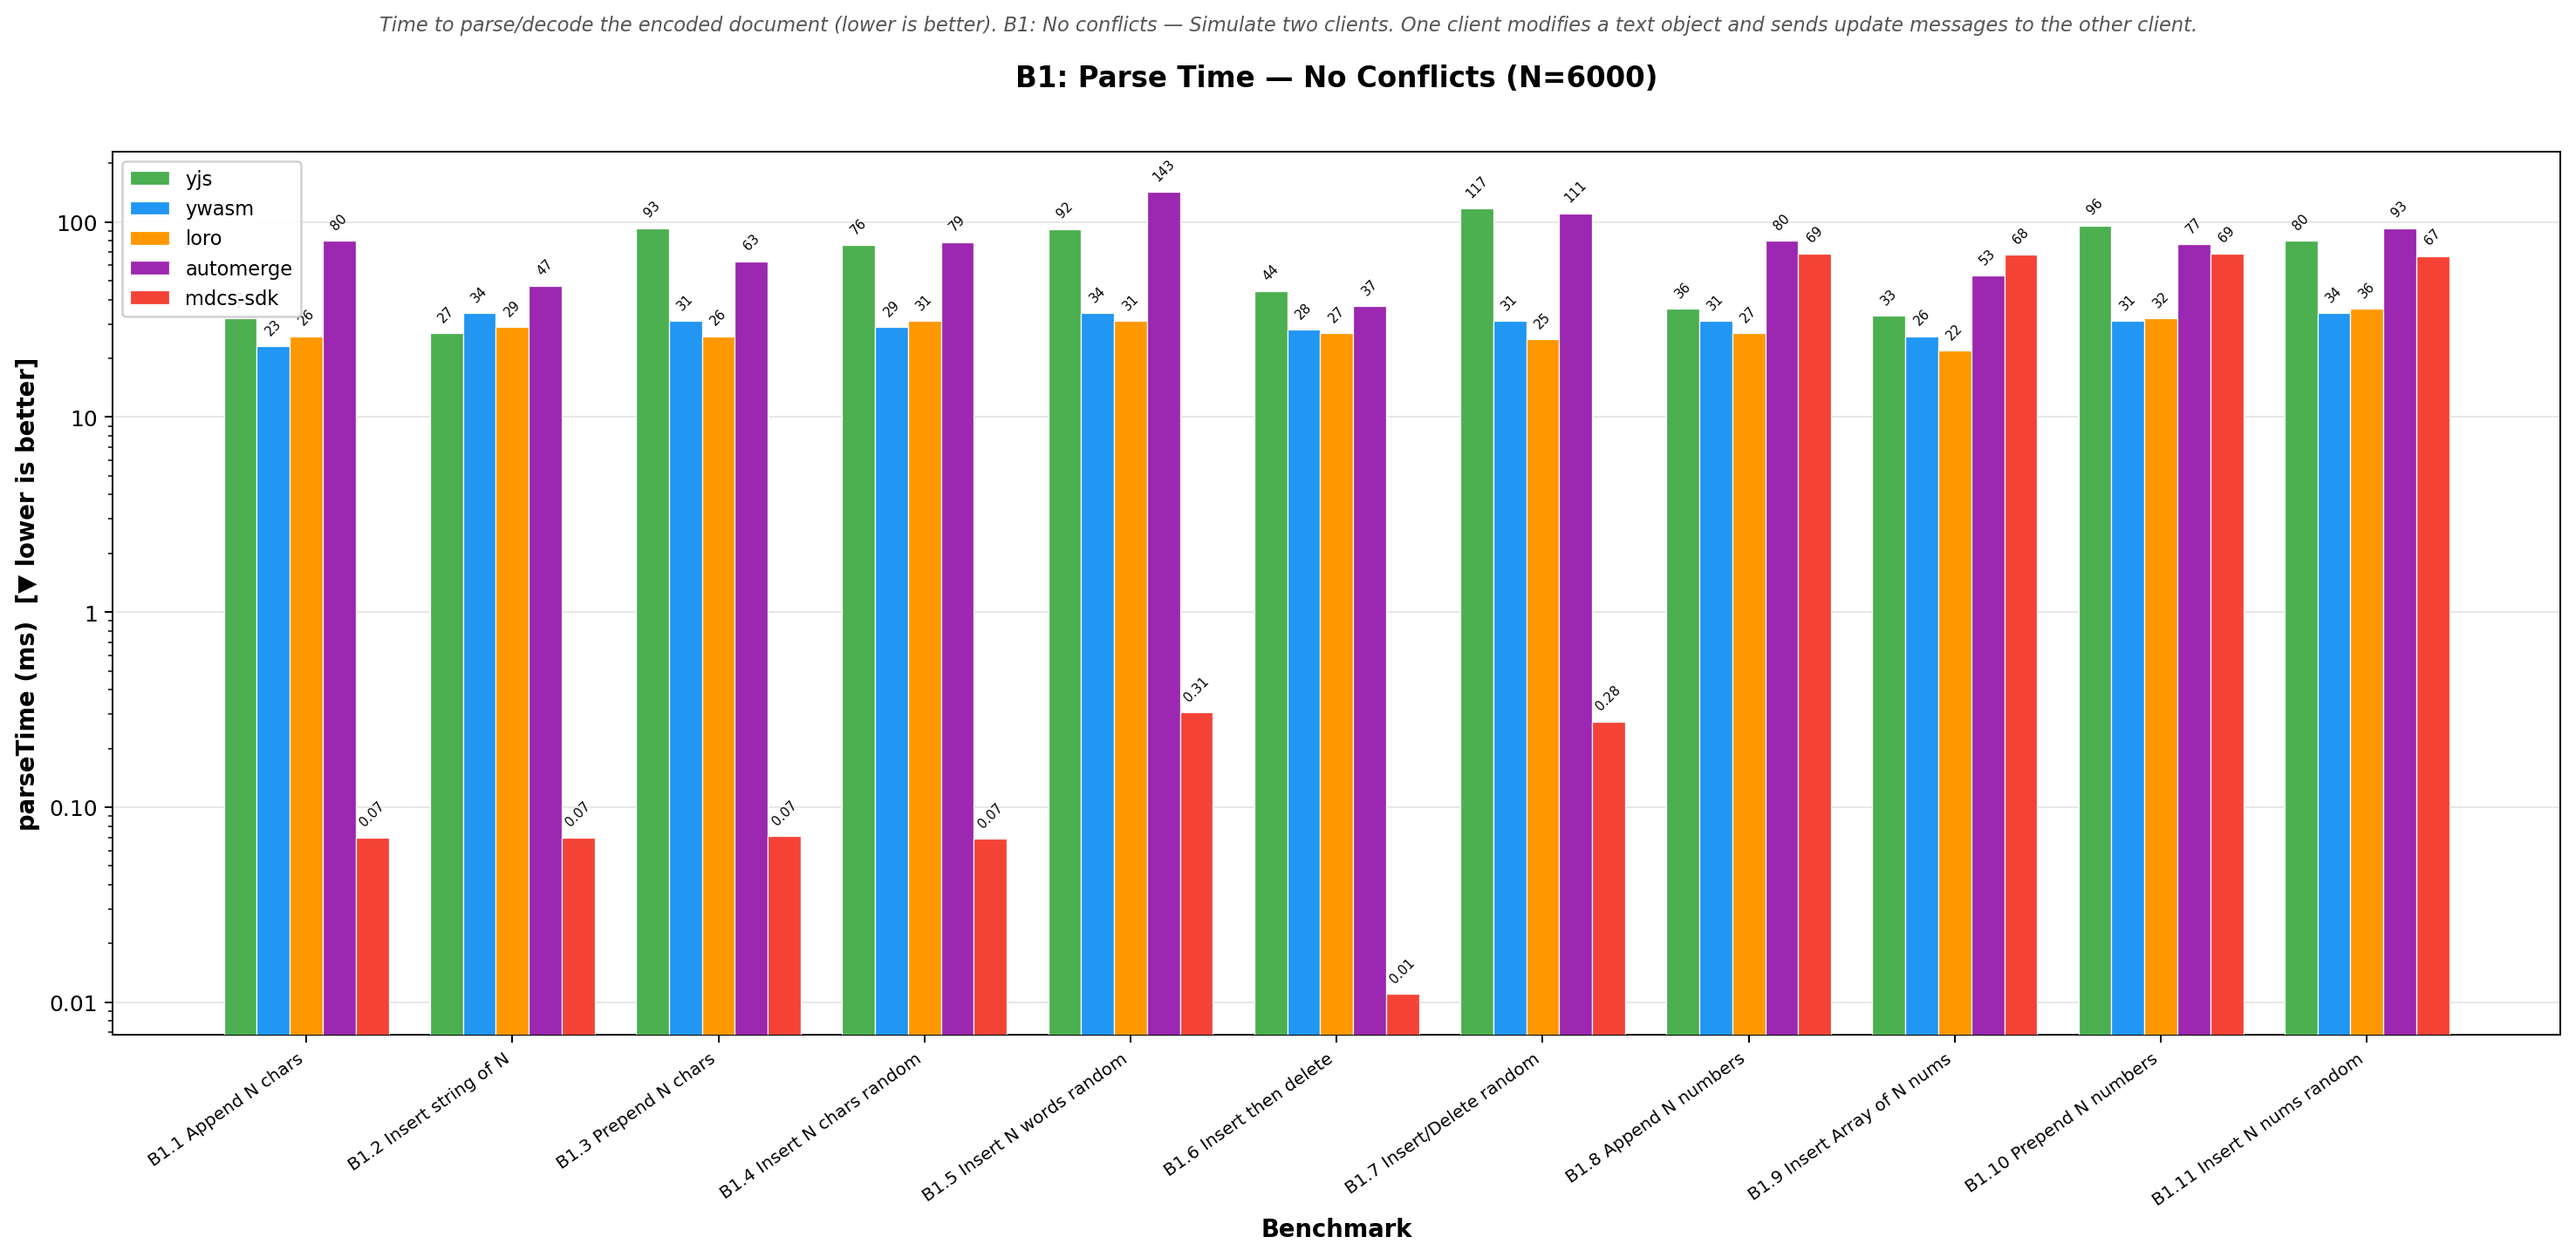
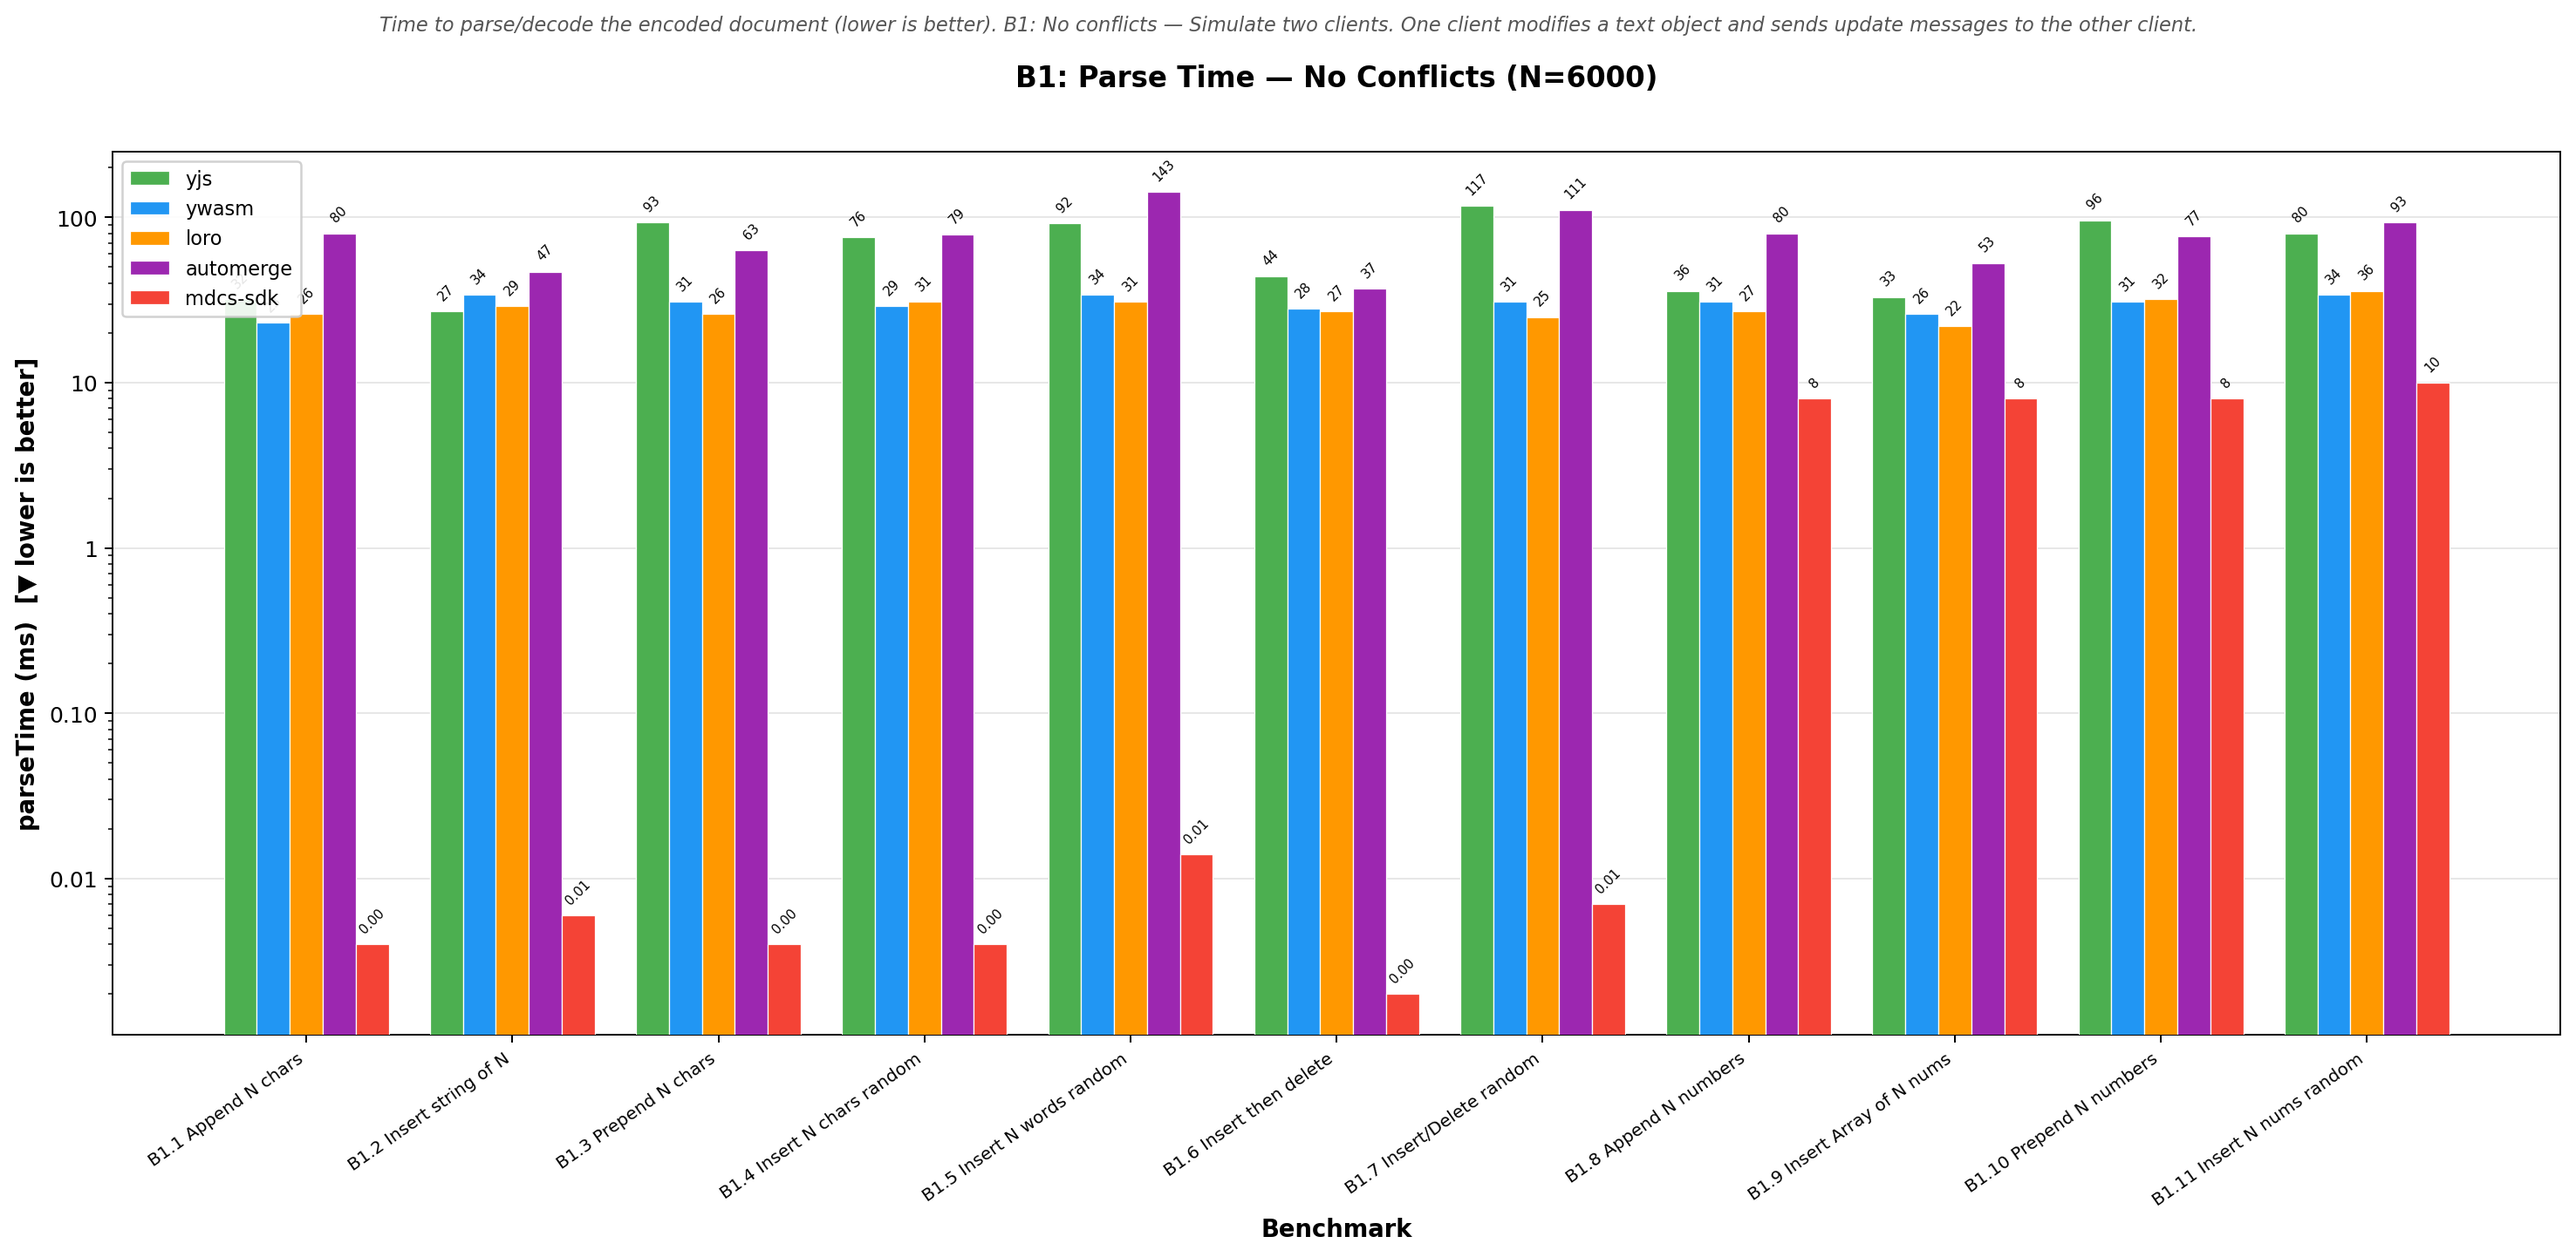
Add benchmark results and raw logs for MDCS CRDT performance tests
- Created `benchmark_results_full.txt` to store detailed benchmark results for various operations with N = 6000, including append, insert, prepend, and concurrent operations.
- Added `benchmark_results_raw_full.txt` to log the compilation process and execution details of the benchmarks.

diff --git a/benchmarks/RESULTS_v0.1.3.md b/benchmarks/RESULTS_v0.1.3.md
@@ -15,32 +15,32 @@ Comparable to [dmonad/crdt-benchmarks](https://github.com/dmonad/crdt-benchmarks
 
 | Benchmark | time | avgUpdateSize | encodeTime | docSize:json | docSize:bincode | docSize:postcard | parseTime | memUsed |
 | :--- | ---: | ---: | ---: | ---: | ---: | ---: | ---: | ---: |
-| B1.1 Append N characters | 88733 ms | 1 bytes | 555 µs | 6002 bytes | 6008 bytes | 6002 bytes | 70 µs | 2.8 MB |
-| B1.2 Insert string of length N | 33 ms | 6000 bytes | 391 µs | 6002 bytes | 6008 bytes | 6002 bytes | 70 µs | 2.8 MB |
-| B1.3 Prepend N characters | 14311 ms | 1 bytes | 387 µs | 6002 bytes | 6008 bytes | 6002 bytes | 71 µs | 2.3 MB |
-| B1.4 Insert N characters at random positions | 43738 ms | 1 bytes | 393 µs | 6002 bytes | 6008 bytes | 6002 bytes | 69 µs | 2.4 MB |
-| B1.5 Insert N words at random positions | 226611 ms | 4 bytes | 1 ms | 29178 bytes | 29184 bytes | 29179 bytes | 306 µs | 16.3 MB |
-| B1.6 Insert string, then delete it | 74 ms | 6000 bytes | 13 µs | 2 bytes | 8 bytes | 1 bytes | 11 µs | 3.1 MB |
-| B1.7 Insert/Delete strings at random positions | 152556 ms | 3 bytes | 1 ms | 14829 bytes | 14835 bytes | 14829 bytes | 275 µs | 10.3 MB |
-| B1.8 Append N numbers | 112475 ms | 8 bytes | 96 ms | n/a (non-string keys) | 1758090 bytes | 1079337 bytes | 69 ms | 4.3 MB |
-| B1.9 Insert Array of N numbers | 112574 ms | — | 92 ms | n/a (non-string keys) | 1758090 bytes | 1079337 bytes | 68 ms | 4.3 MB |
-| B1.10 Prepend N numbers | 19146 ms | 8 bytes | 96 ms | n/a (non-string keys) | 1758090 bytes | 1073466 bytes | 69 ms | 3.6 MB |
-| B1.11 Insert N numbers at random positions | 57428 ms | 8 bytes | 91 ms | n/a (non-string keys) | 1758090 bytes | 1078858 bytes | 67 ms | 3.8 MB |
+| B1.1 Append N characters | 13919 ms | 1 bytes | 92 µs | 6002 bytes | 6008 bytes | 6002 bytes | 4 µs | 2.8 MB |
+| B1.2 Insert string of length N | 12 ms | 6000 bytes | 26 µs | 6002 bytes | 6008 bytes | 6002 bytes | 6 µs | 2.8 MB |
+| B1.3 Prepend N characters | 2472 ms | 1 bytes | 23 µs | 6002 bytes | 6008 bytes | 6002 bytes | 4 µs | 2.3 MB |
+| B1.4 Insert N characters at random positions | 7652 ms | 1 bytes | 20 µs | 6002 bytes | 6008 bytes | 6002 bytes | 4 µs | 2.4 MB |
+| B1.5 Insert N words at random positions | 44097 ms | 4 bytes | 75 µs | 29236 bytes | 29242 bytes | 29237 bytes | 14 µs | 16.3 MB |
+| B1.6 Insert string, then delete it | 21 ms | 6000 bytes | 1 µs | 2 bytes | 8 bytes | 1 bytes | 2 µs | 3.1 MB |
+| B1.7 Insert/Delete strings at random positions | 26766 ms | 4 bytes | 33 µs | 15418 bytes | 15424 bytes | 15418 bytes | 7 µs | 10.4 MB |
+| B1.8 Append N numbers | 17202 ms | 8 bytes | 7 ms | n/a (non-string keys) | 1758090 bytes | 1079337 bytes | 8 ms | 4.3 MB |
+| B1.9 Insert Array of N numbers | 16997 ms | — | 6 ms | n/a (non-string keys) | 1758090 bytes | 1079337 bytes | 8 ms | 4.3 MB |
+| B1.10 Prepend N numbers | 3554 ms | 8 bytes | 6 ms | n/a (non-string keys) | 1758090 bytes | 1073466 bytes | 8 ms | 3.6 MB |
+| B1.11 Insert N numbers at random positions | 8429 ms | 8 bytes | 9 ms | n/a (non-string keys) | 1758090 bytes | 1078831 bytes | 10 ms | 3.8 MB |
 
 ### B2
 
 | Benchmark | time | avgUpdateSize | encodeTime | docSize:json | docSize:bincode | docSize:postcard | parseTime | memUsed |
 | :--- | ---: | ---: | ---: | ---: | ---: | ---: | ---: | ---: |
-| B2.1 Concurrently insert string of length N at index 0 | 39 ms | 12200 bytes | 772 µs | 12102 bytes | 12108 bytes | 12102 bytes | 124 µs | 6.9 MB |
-| B2.2 Concurrently insert N characters at random positions | 46 ms | 12200 bytes | 1 ms | 12102 bytes | 12108 bytes | 12102 bytes | 143 µs | 6.2 MB |
-| B2.3 Concurrently insert N words at random positions | 406 ms | 58514 bytes | 5 ms | 58416 bytes | 58422 bytes | 58417 bytes | 926 µs | 43.4 MB |
-| B2.4 Concurrently insert & delete | 180 ms | 30436 bytes | 3 ms | 30410 bytes | 30416 bytes | 30411 bytes | 295 µs | 25.6 MB |
+| B2.1 Concurrently insert string of length N at index 0 | 14 ms | 12200 bytes | 58 µs | 12102 bytes | 12108 bytes | 12102 bytes | 10 µs | 6.9 MB |
+| B2.2 Concurrently insert N characters at random positions | 22 ms | 12200 bytes | 373 µs | 12102 bytes | 12108 bytes | 12102 bytes | 11 µs | 6.2 MB |
+| B2.3 Concurrently insert N words at random positions | 198 ms | 58968 bytes | 1 ms | 58870 bytes | 58876 bytes | 58871 bytes | 419 µs | 43.5 MB |
+| B2.4 Concurrently insert & delete | 83 ms | 30816 bytes | 1 ms | 30781 bytes | 30787 bytes | 30782 bytes | 15 µs | 25.6 MB |
 
 ### B3
 
 | Benchmark | time | encodeTime | docSize:json | docSize:bincode | docSize:postcard | parseTime | memUsed |
 | :--- | ---: | ---: | ---: | ---: | ---: | ---: | ---: |
-| B3.1 20*sqrt(N) clients concurrently set number in Map | 1080 ms | 5 ms | n/a (non-string keys) | 107843 bytes | 48926 bytes | 7 ms | 3.5 MB |
-| B3.2 20*sqrt(N) clients concurrently set Object in Map | 4503 ms | 23 ms | n/a (non-string keys) | 488665 bytes | 257810 bytes | 27 ms | 7.5 MB |
-| B3.3 20*sqrt(N) clients concurrently set String in Map | 2367 ms | 6 ms | n/a (non-string keys) | 1656843 bytes | 1588632 bytes | 7 ms | 8.0 MB |
-| B3.4 20*sqrt(N) clients concurrently insert text in Array | 1238 ms | 22 ms | n/a (non-string keys) | 501556 bytes | 317172 bytes | 17 ms | 3.7 MB |
+| B3.1 20*sqrt(N) clients concurrently set number in Map | 429 ms | 461 µs | n/a (non-string keys) | 107843 bytes | 48926 bytes | 642 µs | 3.5 MB |
+| B3.2 20*sqrt(N) clients concurrently set Object in Map | 2034 ms | 1 ms | n/a (non-string keys) | 488665 bytes | 257810 bytes | 2 ms | 7.5 MB |
+| B3.3 20*sqrt(N) clients concurrently set String in Map | 702 ms | 791 µs | n/a (non-string keys) | 1656843 bytes | 1588632 bytes | 1 ms | 8.0 MB |
+| B3.4 20*sqrt(N) clients concurrently insert text in Array | 628 ms | 1 ms | n/a (non-string keys) | 501585 bytes | 317201 bytes | 1 ms | 3.7 MB |

diff --git a/benchmarks/RESULTS_v0.1.3_full.md b/benchmarks/RESULTS_v0.1.3_full.md
@@ -1,0 +1,46 @@
+# MDCS Benchmark Results
+
+> N = 6000 (default). Generated from raw benchmark log.
+
+Comparable to [dmonad/crdt-benchmarks](https://github.com/dmonad/crdt-benchmarks) output.
+
+**Notes**
+
+> The tests are run on a Windows Laptop (WSL UBUNTU 22.04) with Ryzen 7 5800HS, 16GB 3200mhz SO-DIMM.
+
+> **N=6000**
+> MDCS-SDK `V0.1.2`
+
+### B1
+
+| Benchmark | time | avgUpdateSize | encodeTime | docSize:json | docSize:bincode | docSize:postcard | parseTime | memUsed |
+| :--- | ---: | ---: | ---: | ---: | ---: | ---: | ---: | ---: |
+| B1.1 Append N characters | 88733 ms | 1 bytes | 555 µs | 6002 bytes | 6008 bytes | 6002 bytes | 70 µs | 2.8 MB |
+| B1.2 Insert string of length N | 33 ms | 6000 bytes | 391 µs | 6002 bytes | 6008 bytes | 6002 bytes | 70 µs | 2.8 MB |
+| B1.3 Prepend N characters | 14311 ms | 1 bytes | 387 µs | 6002 bytes | 6008 bytes | 6002 bytes | 71 µs | 2.3 MB |
+| B1.4 Insert N characters at random positions | 43738 ms | 1 bytes | 393 µs | 6002 bytes | 6008 bytes | 6002 bytes | 69 µs | 2.4 MB |
+| B1.5 Insert N words at random positions | 226611 ms | 4 bytes | 1 ms | 29178 bytes | 29184 bytes | 29179 bytes | 306 µs | 16.3 MB |
+| B1.6 Insert string, then delete it | 74 ms | 6000 bytes | 13 µs | 2 bytes | 8 bytes | 1 bytes | 11 µs | 3.1 MB |
+| B1.7 Insert/Delete strings at random positions | 152556 ms | 3 bytes | 1 ms | 14829 bytes | 14835 bytes | 14829 bytes | 275 µs | 10.3 MB |
+| B1.8 Append N numbers | 112475 ms | 8 bytes | 96 ms | n/a (non-string keys) | 1758090 bytes | 1079337 bytes | 69 ms | 4.3 MB |
+| B1.9 Insert Array of N numbers | 112574 ms | — | 92 ms | n/a (non-string keys) | 1758090 bytes | 1079337 bytes | 68 ms | 4.3 MB |
+| B1.10 Prepend N numbers | 19146 ms | 8 bytes | 96 ms | n/a (non-string keys) | 1758090 bytes | 1073466 bytes | 69 ms | 3.6 MB |
+| B1.11 Insert N numbers at random positions | 57428 ms | 8 bytes | 91 ms | n/a (non-string keys) | 1758090 bytes | 1078858 bytes | 67 ms | 3.8 MB |
+
+### B2
+
+| Benchmark | time | avgUpdateSize | encodeTime | docSize:json | docSize:bincode | docSize:postcard | parseTime | memUsed |
+| :--- | ---: | ---: | ---: | ---: | ---: | ---: | ---: | ---: |
+| B2.1 Concurrently insert string of length N at index 0 | 39 ms | 12200 bytes | 772 µs | 12102 bytes | 12108 bytes | 12102 bytes | 124 µs | 6.9 MB |
+| B2.2 Concurrently insert N characters at random positions | 46 ms | 12200 bytes | 1 ms | 12102 bytes | 12108 bytes | 12102 bytes | 143 µs | 6.2 MB |
+| B2.3 Concurrently insert N words at random positions | 406 ms | 58514 bytes | 5 ms | 58416 bytes | 58422 bytes | 58417 bytes | 926 µs | 43.4 MB |
+| B2.4 Concurrently insert & delete | 180 ms | 30436 bytes | 3 ms | 30410 bytes | 30416 bytes | 30411 bytes | 295 µs | 25.6 MB |
+
+### B3
+
+| Benchmark | time | encodeTime | docSize:json | docSize:bincode | docSize:postcard | parseTime | memUsed |
+| :--- | ---: | ---: | ---: | ---: | ---: | ---: | ---: |
+| B3.1 20*sqrt(N) clients concurrently set number in Map | 1080 ms | 5 ms | n/a (non-string keys) | 107843 bytes | 48926 bytes | 7 ms | 3.5 MB |
+| B3.2 20*sqrt(N) clients concurrently set Object in Map | 4503 ms | 23 ms | n/a (non-string keys) | 488665 bytes | 257810 bytes | 27 ms | 7.5 MB |
+| B3.3 20*sqrt(N) clients concurrently set String in Map | 2367 ms | 6 ms | n/a (non-string keys) | 1656843 bytes | 1588632 bytes | 7 ms | 8.0 MB |
+| B3.4 20*sqrt(N) clients concurrently insert text in Array | 1238 ms | 22 ms | n/a (non-string keys) | 501556 bytes | 317172 bytes | 17 ms | 3.7 MB |
